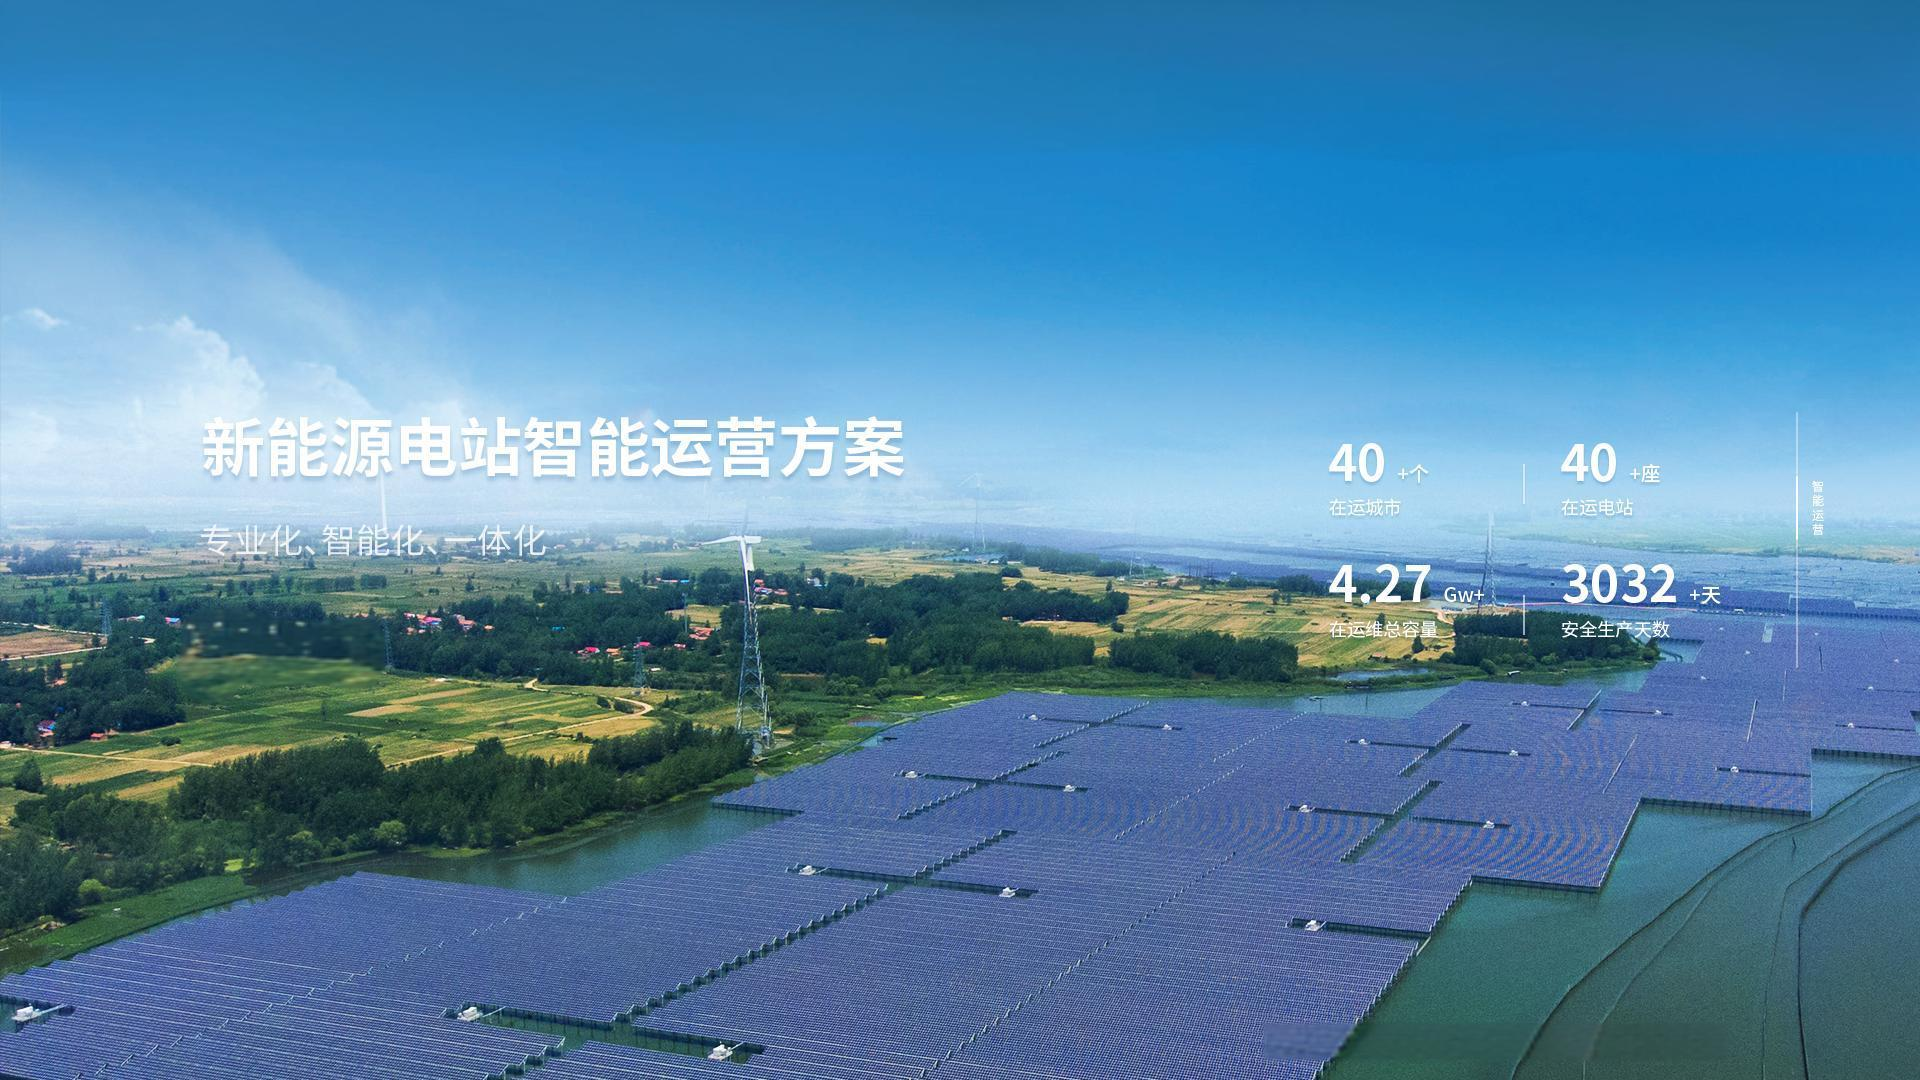
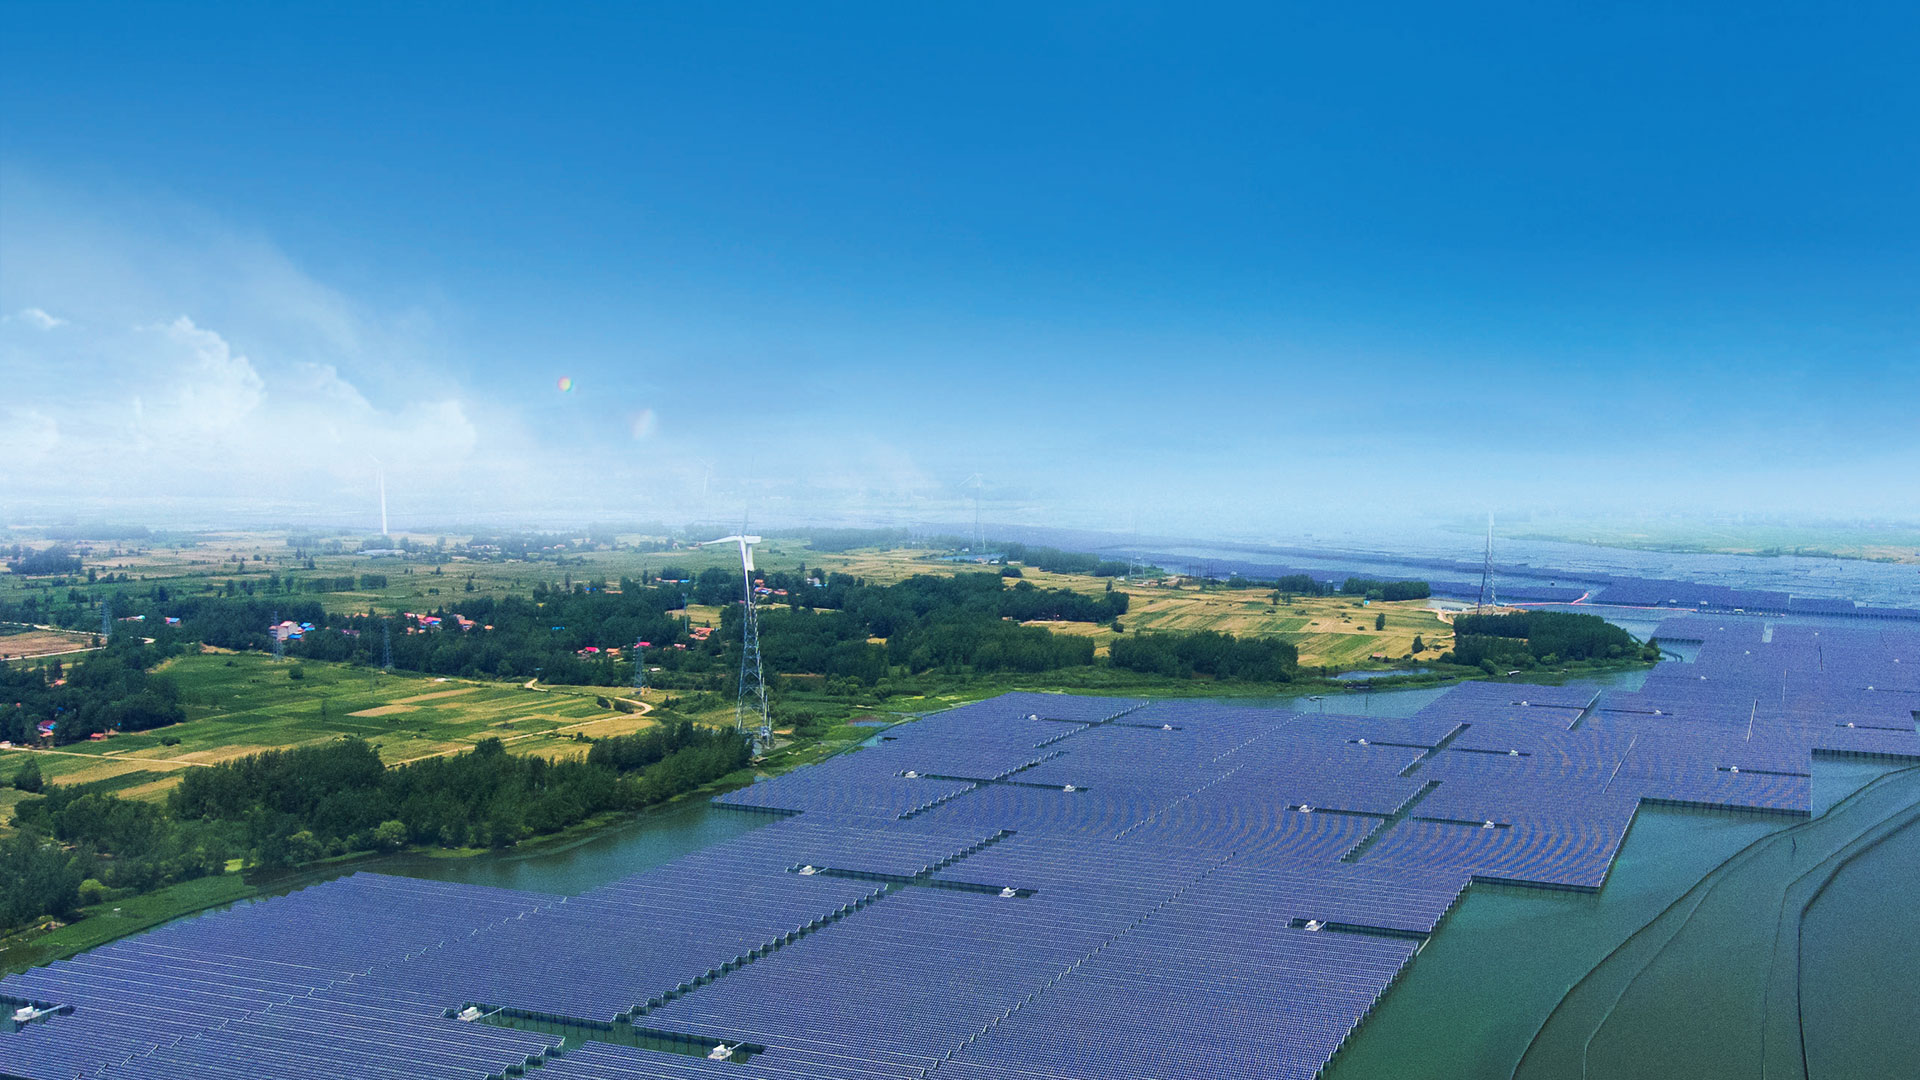
fix: 首页轮播图显示样式优化；

diff --git a/src/components/Carousel.vue b/src/components/Carousel.vue
@@ -82,7 +82,7 @@
   
   .indicator {
     position: absolute;
-    right: 85px;
+    right: 86px;
     top: 50%;
     transform: translateY(-50%);
     display: flex;
@@ -92,7 +92,7 @@
   }
   
   .segment {
-    width: 2px;
+    width: 1px;
     height: 58px;
     background-color: rgba(255, 255, 255, 0.4);
     transition: background-color 0.3s, width 0.3s;
@@ -100,7 +100,7 @@
   
   .segment.active {
     background-color: #fefefe;
-    width: 4px;
+    width: 2px;
   }
   </style>
   

diff --git a/src/views/Home/Home.vue b/src/views/Home/Home.vue
@@ -148,7 +148,6 @@ onMounted(() => {
 
   &-title {
     color: #fff;
-    display: none;
     font-size: 57.5px;
     text-align: center;
     position: absolute;
